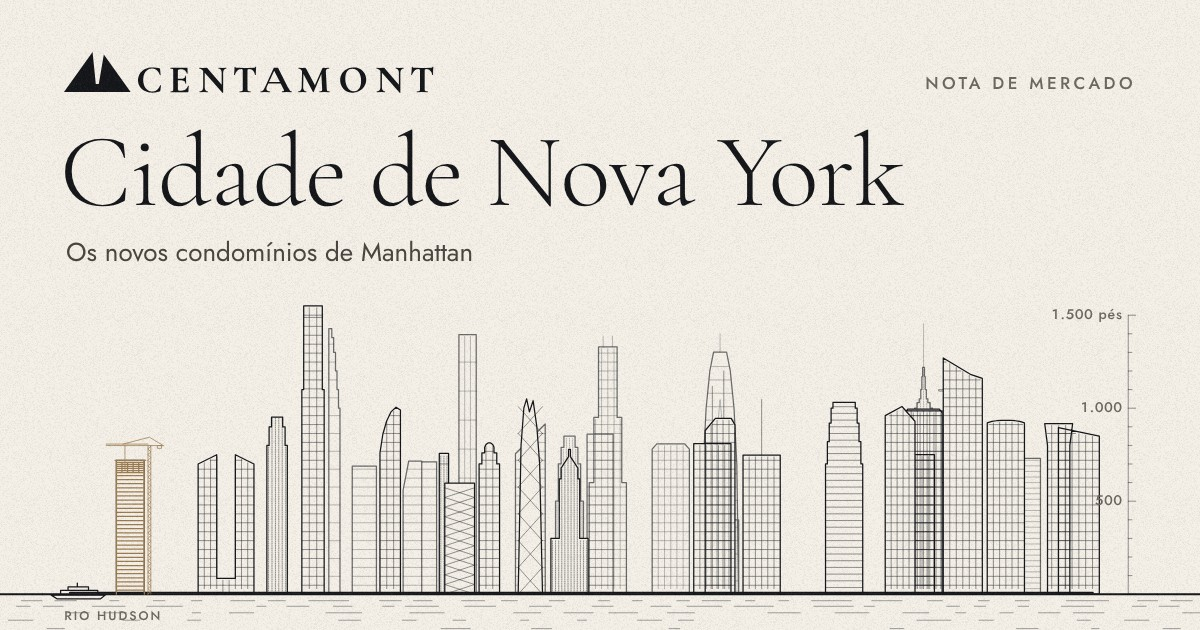
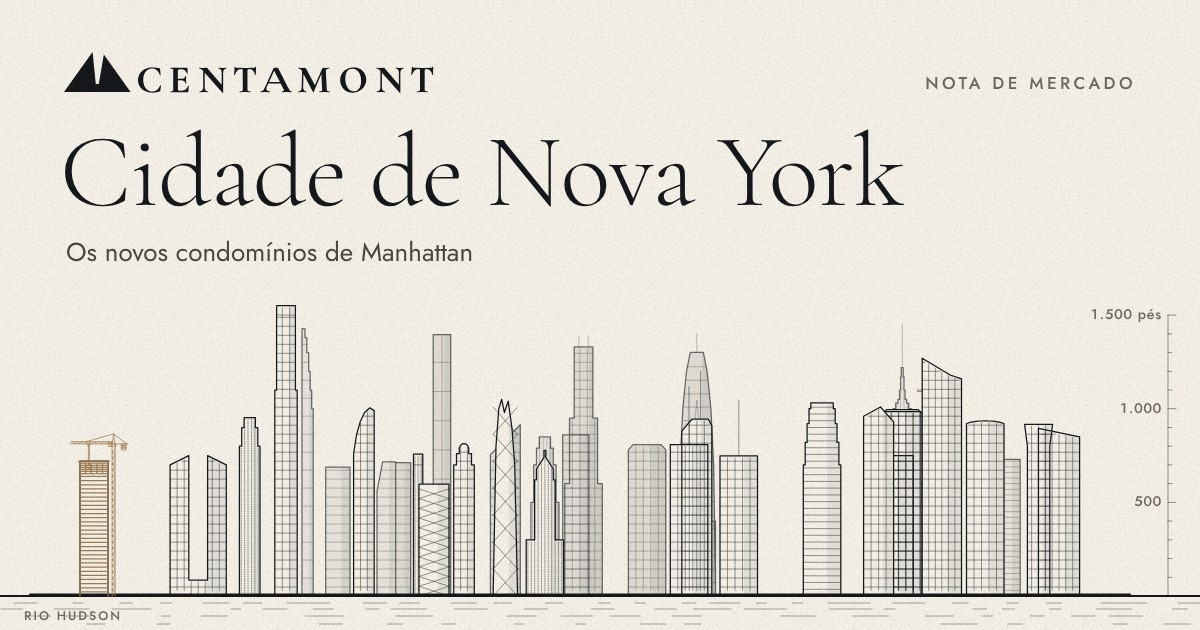
Share cards redrawn from the changed skylines
Claude-Session: https://claude.ai/code/session_01Qkev16JcpQG8phyjm2j45b

diff --git a/es/nueva-york.html b/es/nueva-york.html
@@ -25,7 +25,7 @@
 <meta property="og:url" content="https://centamont.com/es/nueva-york.html">
 <meta property="og:title" content="Nueva York: los condominios nuevos de Manhattan · Centamont">
 <meta property="og:description" content="Nuevos desarrollos en Manhattan: el mercado en cifras, los barrios donde se levantan edificios nuevos, cómo funcionan los planes de oferta y a qué se enfrentan los promotores bajo la ley de Nueva York.">
-<meta property="og:image" content="https://centamont.com/es/og-nueva-york.jpg?v=3">
+<meta property="og:image" content="https://centamont.com/es/og-nueva-york.jpg?v=4">
 <meta property="og:image:width" content="1200">
 <meta property="og:image:height" content="630">
 <meta property="og:image:alt" content="Ciudad de Nueva York: un alzado dibujado de Manhattan desde el Hudson, con el logotipo de Centamont">

diff --git a/hamptons.html b/hamptons.html
@@ -19,7 +19,7 @@
 <meta property="og:url" content="https://centamont.com/hamptons.html">
 <meta property="og:title" content="The Hamptons: Southampton and East Hampton · Centamont">
 <meta property="og:description" content="New houses in the Hamptons, a Centamont market open now: the market in figures, the villages where new houses rise and how a new house is bought.">
-<meta property="og:image" content="https://centamont.com/og-hamptons.jpg?v=3">
+<meta property="og:image" content="https://centamont.com/og-hamptons.jpg?v=4">
 <meta property="og:image:width" content="1200">
 <meta property="og:image:height" content="630">
 <meta property="og:image:alt" content="The Hamptons: a drawn elevation of East End landmarks along the South Fork, from the Shinnecock Hills clubhouse to the Montauk Point Lighthouse, with the Centamont wordmark">

diff --git a/pt/nova-york.html b/pt/nova-york.html
@@ -25,7 +25,7 @@
 <meta property="og:url" content="https://centamont.com/pt/nova-york.html">
 <meta property="og:title" content="Nova York: os novos condomínios de Manhattan · Centamont">
 <meta property="og:description" content="Lançamentos imobiliários em Manhattan: o mercado em números, os bairros onde surgem novos edifícios, como funcionam os planos de oferta e o que as incorporadoras enfrentam sob a lei de Nova York.">
-<meta property="og:image" content="https://centamont.com/pt/og-nova-york.jpg?v=3">
+<meta property="og:image" content="https://centamont.com/pt/og-nova-york.jpg?v=4">
 <meta property="og:image:width" content="1200">
 <meta property="og:image:height" content="630">
 <meta property="og:image:alt" content="Cidade de Nova York: uma elevação desenhada de Manhattan vista do Hudson, com o logotipo da Centamont">

diff --git a/orange-county.html b/orange-county.html
@@ -19,7 +19,7 @@
 <meta property="og:url" content="https://centamont.com/orange-county.html">
 <meta property="og:title" content="Orange County: Newport Beach and Irvine · Centamont">
 <meta property="og:description" content="New condominiums in Orange County, a later Centamont market: Newport Center, Irvine and the coast, the public report, and the rules of the coastal zone.">
-<meta property="og:image" content="https://centamont.com/og-orange-county.jpg?v=3">
+<meta property="og:image" content="https://centamont.com/og-orange-county.jpg?v=4">
 <meta property="og:image:width" content="1200">
 <meta property="og:image:height" content="630">
 <meta property="og:image:alt" content="Orange County: a drawn elevation of Newport Center from the harbor, with the Centamont wordmark">

diff --git a/san-francisco.html b/san-francisco.html
@@ -19,7 +19,7 @@
 <meta property="og:url" content="https://centamont.com/san-francisco.html">
 <meta property="og:title" content="San Francisco: Rincon Hill and Mission Bay · Centamont">
 <meta property="og:description" content="New condominiums in San Francisco, a later Centamont market: Rincon Hill and the Transbay towers, Mission Bay, the public report and the transfer tax.">
-<meta property="og:image" content="https://centamont.com/og-san-francisco.jpg?v=3">
+<meta property="og:image" content="https://centamont.com/og-san-francisco.jpg?v=4">
 <meta property="og:image:width" content="1200">
 <meta property="og:image:height" content="630">
 <meta property="og:image:alt" content="San Francisco: a drawn elevation of Downtown from the bay, with the Centamont wordmark">

diff --git a/tampa.html b/tampa.html
@@ -19,7 +19,7 @@
 <meta property="og:url" content="https://centamont.com/tampa.html">
 <meta property="og:title" content="Tampa: Water Street, Harbour Island and Bayshore · Centamont">
 <meta property="og:description" content="New condominiums in Tampa, a later Centamont market: Water Street, Harbour Island and Bayshore Boulevard, and what the bay asks of a new tall building.">
-<meta property="og:image" content="https://centamont.com/og-tampa.jpg?v=3">
+<meta property="og:image" content="https://centamont.com/og-tampa.jpg?v=4">
 <meta property="og:image:width" content="1200">
 <meta property="og:image:height" content="630">
 <meta property="og:image:alt" content="Tampa: a drawn elevation of Downtown from the Hillsborough River, with the Centamont wordmark">

diff --git a/naples.html b/naples.html
@@ -19,7 +19,7 @@
 <meta property="og:url" content="https://centamont.com/naples.html">
 <meta property="og:title" content="Naples: Pelican Bay, Park Shore and the Old Town · Centamont">
 <meta property="og:description" content="New condominiums in Naples, a later Centamont market: Pelican Bay, Park Shore and the old town, how Florida law shapes a sale, and why the coast stays low.">
-<meta property="og:image" content="https://centamont.com/og-naples.jpg?v=2">
+<meta property="og:image" content="https://centamont.com/og-naples.jpg?v=3">
 <meta property="og:image:width" content="1200">
 <meta property="og:image:height" content="630">
 <meta property="og:image:alt" content="Naples: a drawn elevation of the coast from the Gulf, with the Centamont wordmark">
